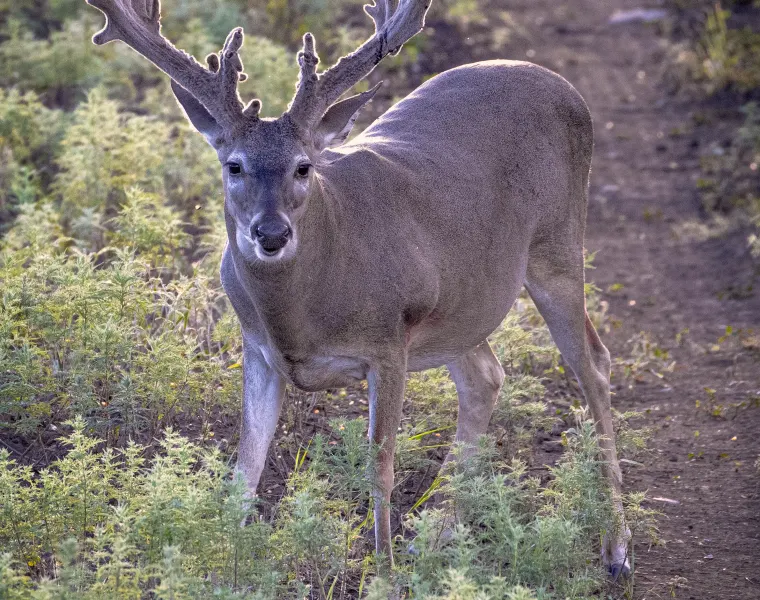
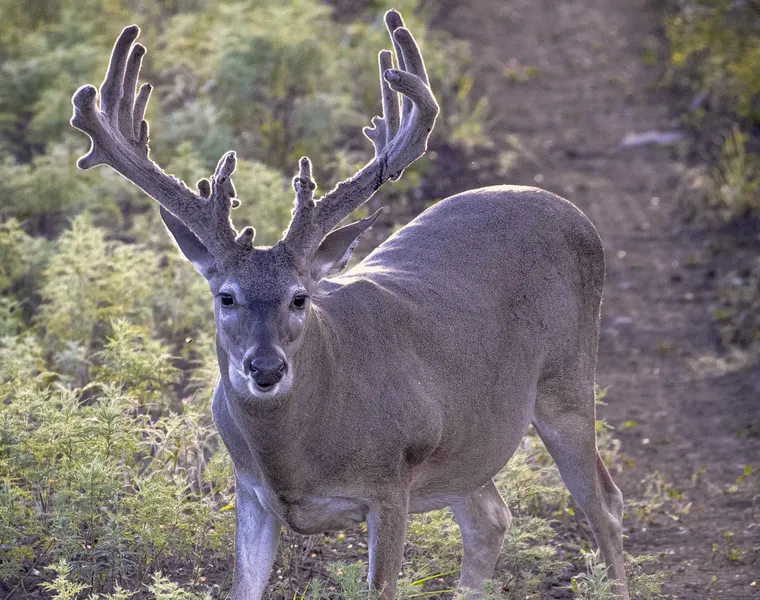
modificacion de navbar y de imagenes del carrusel

diff --git a/script.js b/script.js
@@ -1229,7 +1229,6 @@ const NATURE_IMAGES = [
   "images/Nature-Hunting-opt/7B.webp",
   "images/Nature-Hunting-opt/8B.webp",
   "images/Nature-Hunting-opt/8ok.webp",
-  "images/Nature-Hunting-opt/9B.webp",
   "images/Nature-Hunting-opt/10.webp",
   "images/Nature-Hunting-opt/11.webp",
   "images/Nature-Hunting-opt/15.webp",
@@ -1659,7 +1658,8 @@ function Navbar({ lang, setLang, t }) {
     React.createElement(
       "nav",
       {
-        className: `fixed top-0 left-0 right-0 z-50 transition-all duration-500 ${scrolled ? "bg-forest-900/95 backdrop-blur-md py-3 border-b border-gold-700/30" : "bg-transparent py-5"}`,
+        className: "fixed top-0 left-0 right-0 z-50 transition-all duration-500 bg-forest-900/95 backdrop-blur-md py-3 border-b border-gold-700/30",
+        /*className: `fixed top-0 left-0 right-0 z-50 transition-all duration-500 ${scrolled ? "bg-forest-900/95 backdrop-blur-md py-3 border-b border-gold-700/30" : "bg-transparent py-5"}`,*/
       },
       React.createElement(
         "div",